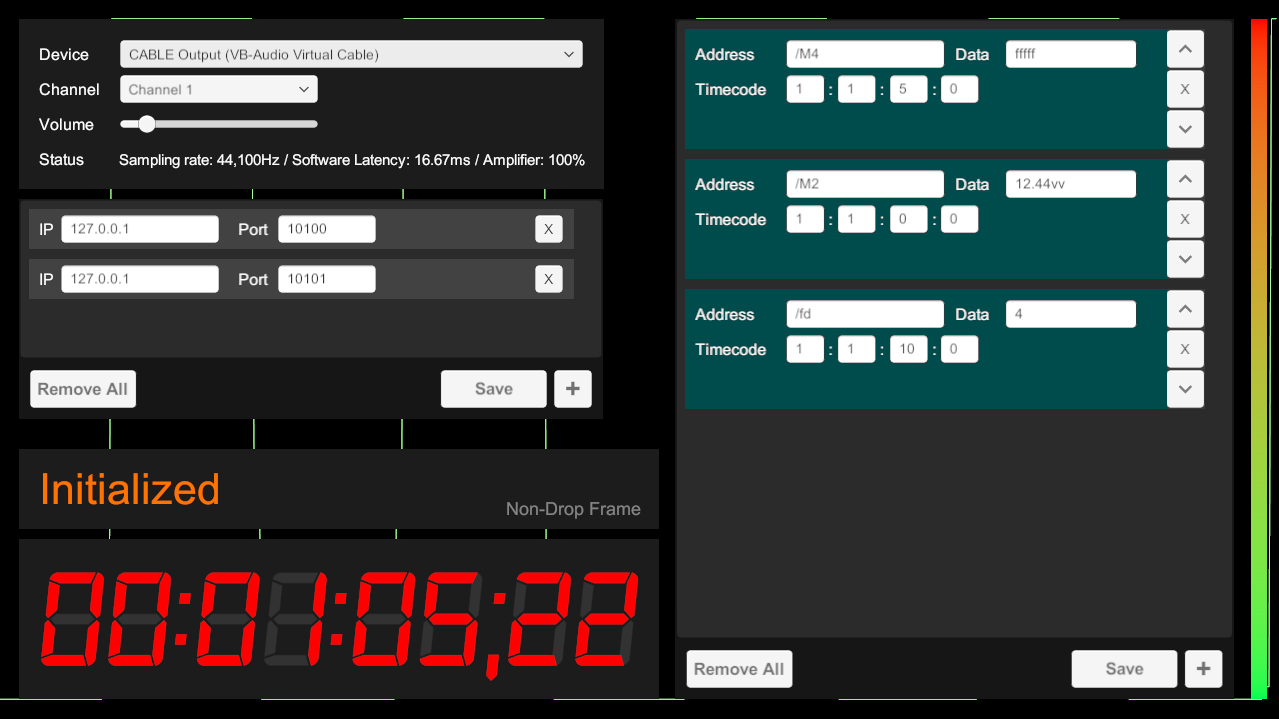
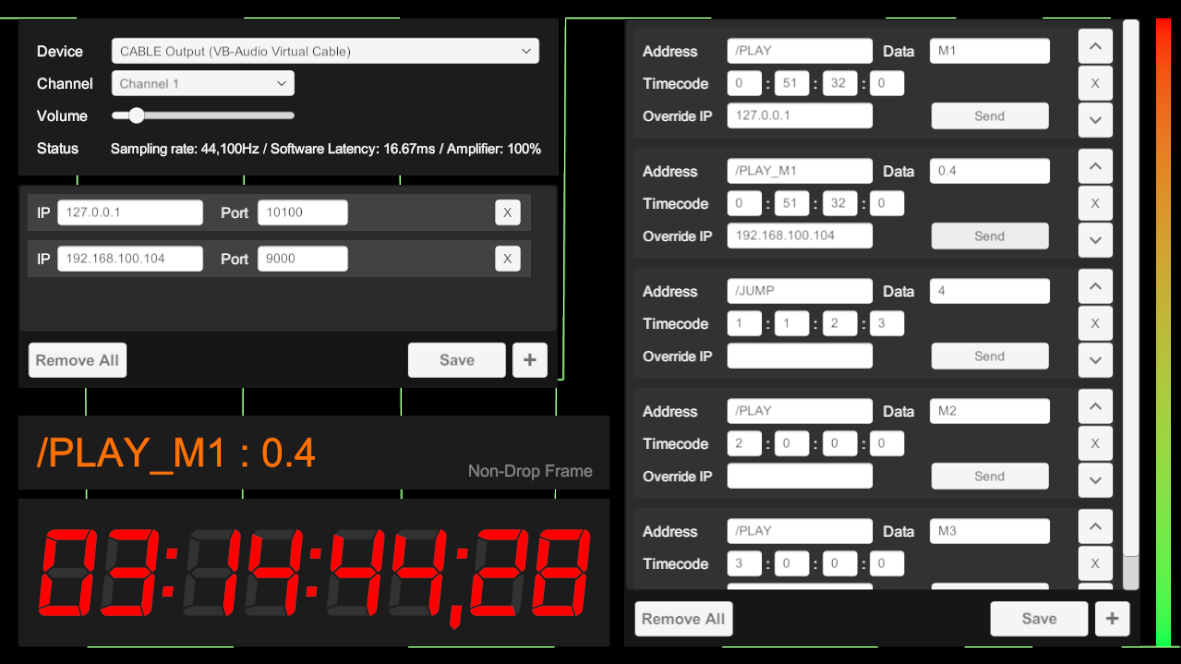
update readme

diff --git a/README.md b/README.md
@@ -2,4 +2,107 @@
 
 # Repulser Engine
 
+Timecode(LTC)信号を受信し、特定のタイムコードのタイミングでOSCの信号を発火するアプリケーションです。
+
 ![thumbnail](https://github.com/ProjectBLUE-000/RepulserEngine/blob/master/Assets/Thumbnails/thumbnail.png)
+
+# Audio Input Setting
+
+オーディオ入力の設定を行います。
+
+オーディオ入力設定は、アプリを再起動すると再度設定する必要がありますのでご注意ください。(修正予定)
+
+![audio](https://github.com/ProjectBLUE-000/RepulserEngine/blob/master/Assets/Thumbnails/audio.png)
+
+- Device
+    - PCに認識されているオーディオデバイスが列挙されます。
+    - 使用したいデバイスを選択してください。
+
+![device](https://github.com/ProjectBLUE-000/RepulserEngine/blob/master/Assets/Thumbnails/device.png)
+
+- Channel
+    - オーディオデバイスにチャンネル情報がある場合はチャンネルが列挙されます。
+    - 使用したいチャンネルを選択してください。
+- Volume
+    - 音声入力のボリュームを制御できます。
+    - ピークに触れないように設定するのがベターです。
+- Status
+    - Sampling rate : 44,100Hz 固定です。
+    - Software Latency : このアプリケーションに取り込むまでのレイテンシが表示されます。
+    - Amplifier : 上記ボリュームの大きさが表示されます。
+
+# Timecode / Status Indicator
+
+タイムコードを表示するGUIと、発火したOSC信号、受信しているLTCがDF/NDFであるかを表示するGUIです。
+
+![indicator](https://github.com/ProjectBLUE-000/RepulserEngine/blob/master/Assets/Thumbnails/indicator.png)
+
+# Endpoint Setting List
+
+OSC送信先を複数設定できます。
+
+![endpoint](https://github.com/ProjectBLUE-000/RepulserEngine/blob/master/Assets/Thumbnails/endpoint.png)
+
+Saveボタンを押した際に、すべての宛先に接続テストのOSC信号がそれぞれ以下で送信されます。
+
+| address                 | data                              | 
+| ----------------------- | --------------------------------- | 
+| /connection-test-string | "Connection test : Hello string!" | 
+| /connection-test-int    | 10                                | 
+| /connection-test-float  | 3.14                              | 
+
+
+# Pulse Setting List
+OSCの信号を送信するタイムコードを定義する機能です。セーブした時点で、設定が有効になります。
+
+コンポーネント右側のボタンで、リストの順番の入れ替え、及び削除が可能です。
+
+![pulse](https://github.com/ProjectBLUE-000/RepulserEngine/blob/master/Assets/Thumbnails/pulse.png)
+
+- Address
+    - 送信するOSC信号のアドレスを定義します。
+- Data
+    - 上記アドレスに付随するデータを定義します。
+    - 入力からfloat, int, stringを自動で判別し、OSCの信号が該当の値型で送信されます。
+- Timecode
+    - 信号を送信するタイミングのタイムコードを入力します。
+    - 受信するLTC信号がドロップフレームの場合は、ドロップフレームのタイムコードに変換する必要があるためご注意ください。
+        - 内部的にタイムコードの比較をイコール判定しているためです。修正予定です。
+- Override IP
+    - 何も入力していない場合、エンドポイントリストにあるすべての宛先にOSCが送信されます。
+    - エンドポイントリストにある特定の宛先にのみ送りたい場合は、該当するIPアドレスを入力すると、その宛先だけに飛ぶようになります。
+- Sendボタン
+    - LTC信号に関わらず、ボタンを押したタイミングで信号を送ることができます。
+
+編集を行うと、背景が赤に変化するので、入力終了次第Saveを押してください。
+
+![edit](https://github.com/ProjectBLUE-000/RepulserEngine/blob/master/Assets/Thumbnails/edit.png)
+
+# 保存データ
+
+設定は StreamingAssetsフォルダ以下にEndpointSetting、PulseSetting、それぞれjsonで保存されています。
+
+Editorの場合は、```Assets/StreamingAssets``` 以下に保存され、
+
+ビルド済アプリの場合は、```アプリのフォルダパス/RepulserEngine_Data/StreamingAssets``` 以下に配置されます。
+
+これらのファイルを直接上書きすることで、アプリを介さずに設定を行うことが可能です。
+
+# For developer
+
+This project is designed with [clean architecture](https://blog.cleancoder.com/uncle-bob/2012/08/13/the-clean-architecture.html).
+
+![arch](https://github.com/ProjectBLUE-000/RepulserEngine/blob/master/Assets/Thumbnails/arch.png)
+
+
+
+# LICENSE
+
+All libraries are licensed under MIT license.
+
+- libsoundio - https://github.com/keijiro/jp.keijiro.libsoundio
+- Timecode4Net - https://github.com/ailen0ada/Timecode4net
+- Extenject (Zenject) - https://github.com/svermeulen/Extenject
+- UniRx - https://github.com/neuecc/UniRx
+- unity-osc - https://github.com/nobnak/unity-osc
+- UIGradient - https://github.com/azixMcAze/Unity-UIGradient
